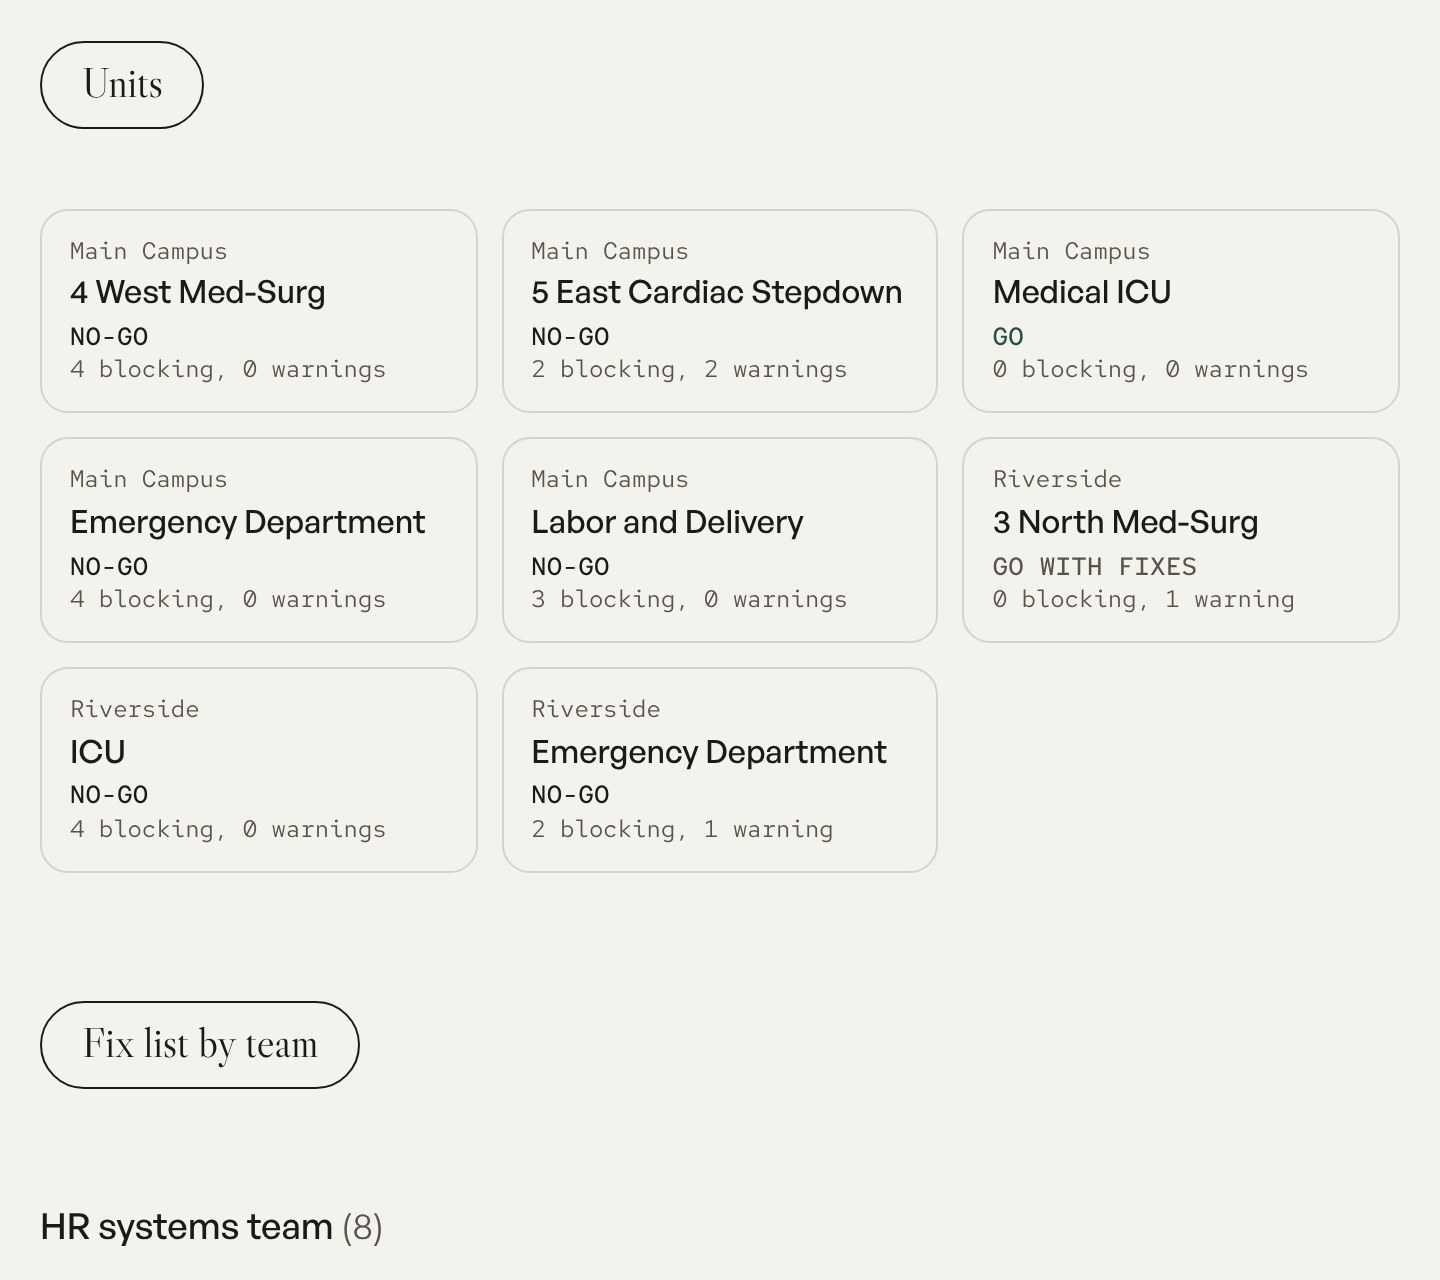
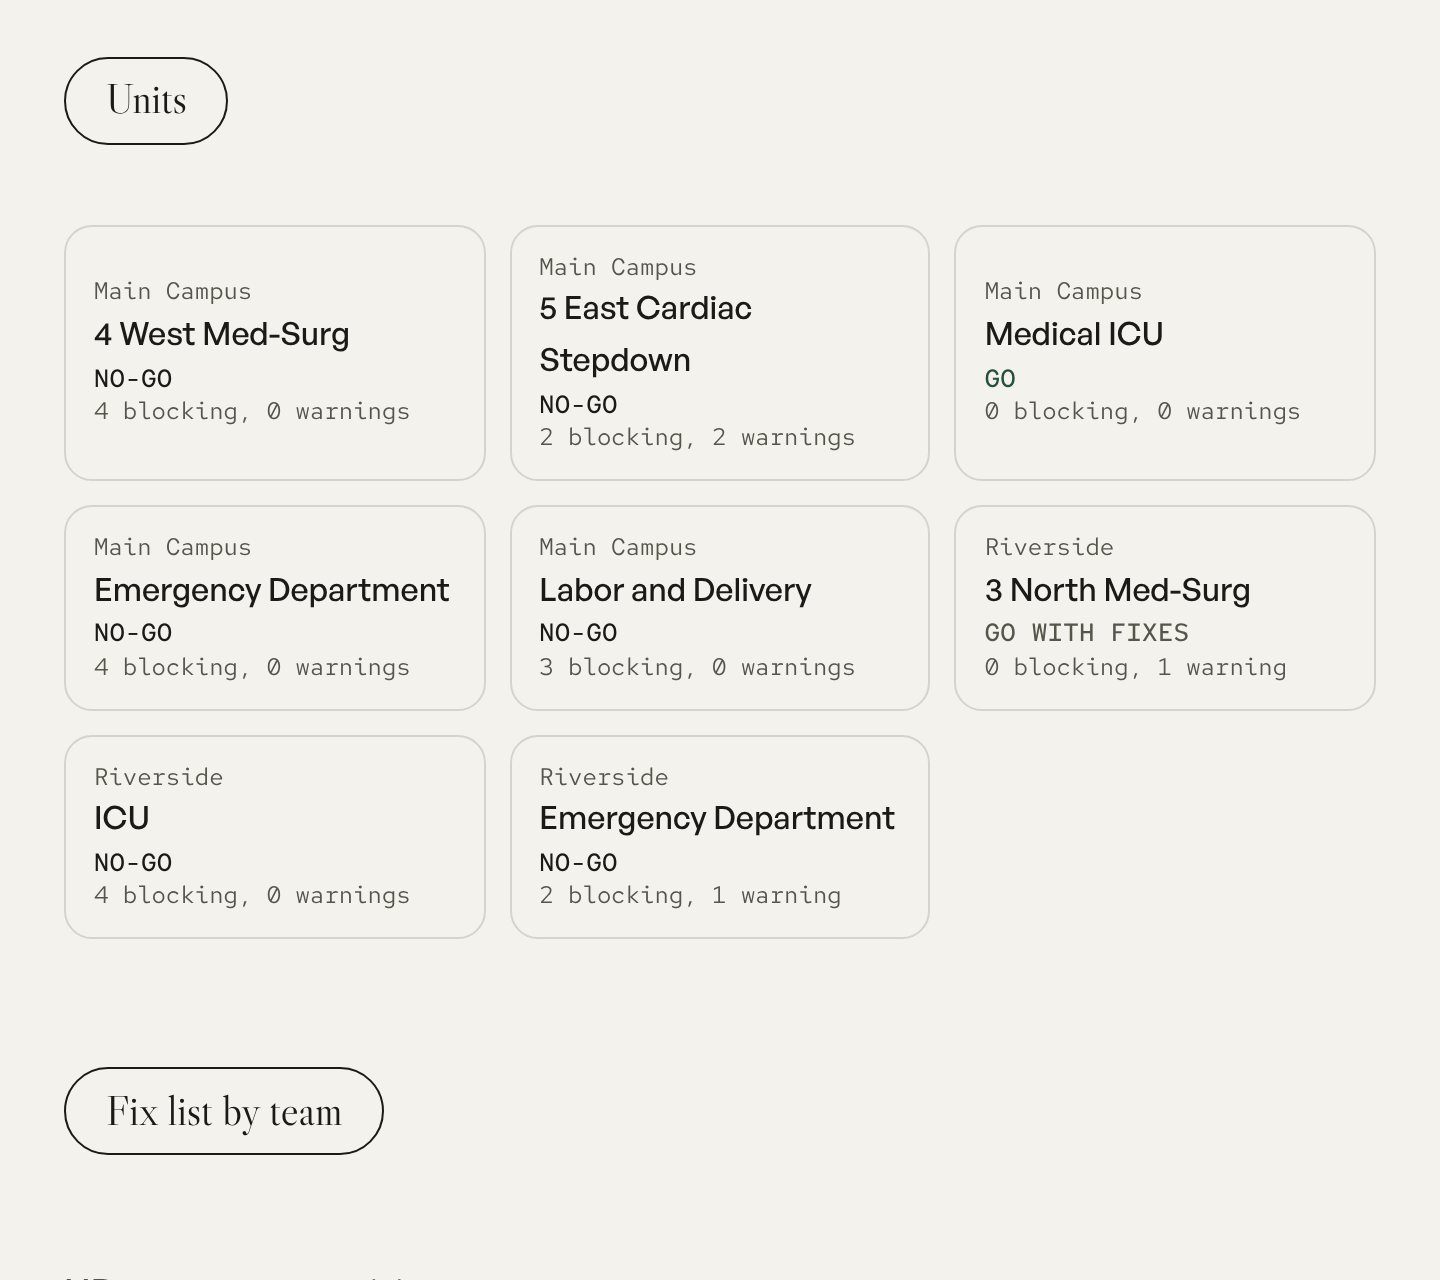
Refresh thumbnails: golive-readiness-check, ticket-routing-eval

diff --git a/index.html b/index.html
@@ -231,11 +231,11 @@ section[id] { scroll-margin-top: 110px; }
           <span class="tile__cap"><span class="tile__row"><b>Contract memory harness</b><span class="tag mono">Live demo <svg viewBox="0 0 12 12" aria-hidden="true"><path d="M3.5 8.5 8.5 3.5M4.5 3.5h4v4"/></svg></span></span><span>Four ways to give an agent memory over a contract bank, and what breaks after an amendment.</span></span>
         </a>
         <a class="tile tile--w tint-1" href="https://pg2342-hub.github.io/golive-readiness-check/">
-          <span class="tile__frame"><span class="tile__shot"><img src="work/golive-readiness-check.jpg?v=20261123b" width="720" height="640" alt="Go-live readiness board: eight hospital units, six no-go, one go with fixes, one go." loading="lazy"></span></span>
+          <span class="tile__frame"><span class="tile__shot"><img src="work/golive-readiness-check.jpg?v=20261123" width="720" height="640" alt="Units section of the go-live readiness board: eight hospital units, six NO-GO, one GO with fixes, and one GO, each with its blocking and warning counts." loading="lazy"></span></span>
           <span class="tile__cap"><span class="tile__row"><b>Go-live readiness check</b><span class="tag mono">Live demo <svg viewBox="0 0 12 12" aria-hidden="true"><path d="M3.5 8.5 8.5 3.5M4.5 3.5h4v4"/></svg></span></span><span>Unit-by-unit go or no-go for a hospital staffing rollout, with fixes grouped by owning team.</span></span>
         </a>
         <a class="tile tile--w tint-2" href="https://pg2342-hub.github.io/ticket-routing-eval/">
-          <span class="tile__frame"><span class="tile__shot"><img src="work/ticket-routing-eval.jpg?v=20261123b" width="720" height="456" alt="Ticket routing chart: as the confidence threshold rises, the share routed automatically falls, accuracy rises, and the cost per 1,000 tickets dips then climbs." loading="lazy"></span></span>
+          <span class="tile__frame"><span class="tile__shot"><img src="work/ticket-routing-eval.jpg?v=20261123" width="720" height="456" alt="Baseline table: routing everything automatically is 74.9% accurate at $1,243 per 1,000 tickets; a 0.85 threshold routes 35% at 97.3% accuracy for $693; all by hand costs $991." loading="lazy"></span></span>
           <span class="tile__cap"><span class="tile__row"><b>Ticket routing eval</b><span class="tag mono">Live demo <svg viewBox="0 0 12 12" aria-hidden="true"><path d="M3.5 8.5 8.5 3.5M4.5 3.5h4v4"/></svg></span></span><span>Picks the confidence bar for auto-routing support tickets, with the cost per 1,000 tickets.</span></span>
         </a>
         <a class="tile tile--n tint-3" href="https://pg2342-hub.github.io/capital-account-tieout/">
